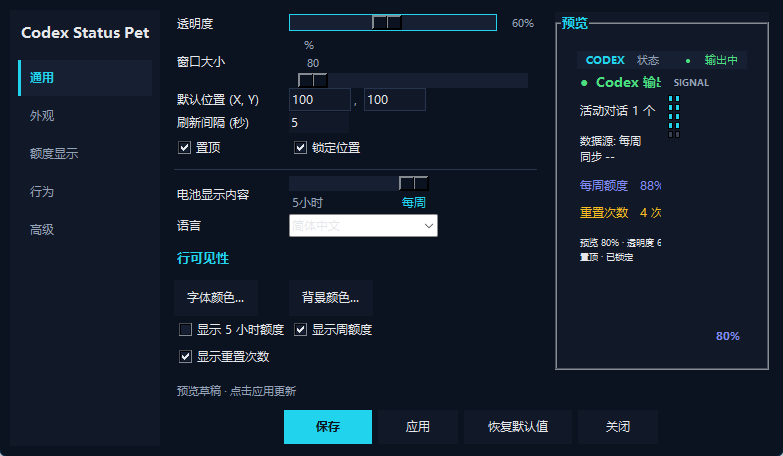
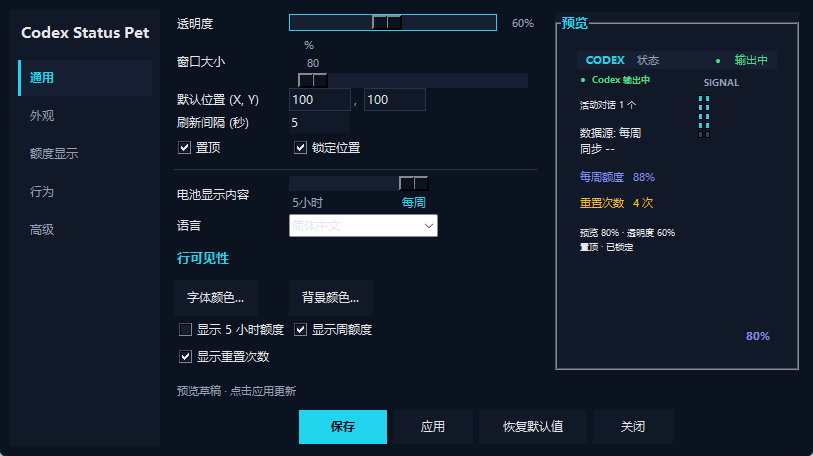
polish: fit settings preview content

diff --git a/tests/test_ui_redesign.py b/tests/test_ui_redesign.py
@@ -404,7 +404,7 @@ class UiRedesignTests(unittest.TestCase):
             preview_card = next(
                 widget
                 for widget in widgets(app.settings_dialog)
-                if isinstance(widget, tk.Frame) and int(widget.cget("width")) == 190
+                if isinstance(widget, tk.Frame) and int(widget.cget("width")) == 220
             )
             preview_texts = {
                 str(widget.cget("text"))
@@ -416,6 +416,18 @@ class UiRedesignTests(unittest.TestCase):
             self.assertIn("SIGNAL", preview_texts)
             preview_live = next(widget for widget in widgets(preview_card) if isinstance(widget, tk.Label) and widget.cget("text") == "Outputting")
             self.assertEqual(preview_live.cget("fg"), "#4ade80")
+            preview_activity = next(
+                widget
+                for widget in widgets(preview_card)
+                if isinstance(widget, tk.Label) and widget.cget("text") == "●  Codex Outputting"
+            )
+            self.assertLessEqual(preview_activity.winfo_reqwidth(), preview_activity.winfo_width())
+            preview_conversations = next(
+                widget
+                for widget in widgets(preview_card)
+                if isinstance(widget, tk.Label) and widget.cget("text") == "Active conversations  1"
+            )
+            self.assertLessEqual(preview_conversations.winfo_reqwidth(), preview_conversations.winfo_width())
             preview_status_dot = next(
                 widget
                 for widget in widgets(preview_card)
@@ -473,7 +485,7 @@ class UiRedesignTests(unittest.TestCase):
             preview_card = next(
                 widget
                 for widget in widgets(app.settings_dialog)
-                if isinstance(widget, tk.Frame) and int(widget.cget("width")) == 190
+                if isinstance(widget, tk.Frame) and int(widget.cget("width")) == 220
             )
             preview_conversations = next(
                 widget

diff --git a/scripts/ui/settings_dialog.py b/scripts/ui/settings_dialog.py
@@ -340,7 +340,7 @@ def show_settings_dialog(owner):
         font=(FONT_FAMILY, 10, "bold"),
     )
     preview.grid(row=0, column=2, rowspan=12, padx=(18, 0), sticky="nsew")
-    preview_card = tk.Frame(preview, bg=COLORS["background"], padx=10, pady=10, width=190, height=145)
+    preview_card = tk.Frame(preview, bg=COLORS["background"], padx=10, pady=10, width=220, height=145)
     preview_card.pack(fill="both", expand=True)
     preview_card.pack_propagate(False)
     preview_header = tk.Frame(preview_card, bg=COLORS["surface_alt"], height=18)
@@ -390,7 +390,7 @@ def show_settings_dialog(owner):
     )
     preview_signal_value.place(relx=1, rely=1, x=-4, y=-3, anchor="se")
     tk.Label(preview_card, text="●  Codex Outputting", bg=COLORS["background"], fg=COLORS["success"], anchor="w", font=(FONT_FAMILY, 10, "bold")).pack(fill="x")
-    tk.Label(preview_card, text="Active conversations  1", bg=COLORS["background"], fg=COLORS["muted"], anchor="w").pack(fill="x", pady=(5, 8))
+    tk.Label(preview_card, text="Active conversations  1", bg=COLORS["background"], fg=COLORS["muted"], anchor="w", font=(FONT_FAMILY, 7)).pack(fill="x", pady=(5, 8))
     preview_source = tk.Label(
         preview_card,
         text="",
@@ -403,7 +403,7 @@ def show_settings_dialog(owner):
     preview_source.pack(fill="x", pady=(0, 4))
     preview_rows = {}
     for row_id, label, color in (("five_hour", "5-hour quota   -- / --", COLORS["accent"]), ("weekly", "Weekly quota   88%", COLORS["accent_alt"]), ("reset_credit", "Reset Credit   4 times", COLORS["warning"])):
-        preview_rows[row_id] = tk.Label(preview_card, text=label, bg=COLORS["background"], fg=color, anchor="w")
+        preview_rows[row_id] = tk.Label(preview_card, text=label, bg=COLORS["background"], fg=color, anchor="w", font=(FONT_FAMILY, 8))
         preview_rows[row_id].pack(fill="x", pady=2)
     preview_meta = tk.Label(
         preview_card,
@@ -452,7 +452,7 @@ def show_settings_dialog(owner):
     def refresh_preview(window_scale_value=None, alpha_value=None):
         refresh_preview_palette()
         preview_status_section.configure(text=text("status"))
-        preview_activity.configure(text=translate(ui_language, "preview_output"))
+        preview_activity.configure(text=translate(ui_language, "preview_output"), font=(FONT_FAMILY, 7, "bold"))
         preview_live.configure(text=translate(ui_language, "output"), fg=COLORS["success"])
         preview_conversations.configure(text=translate(ui_language, "preview_active_conversations"))
         for row_id, text_key in preview_row_keys: